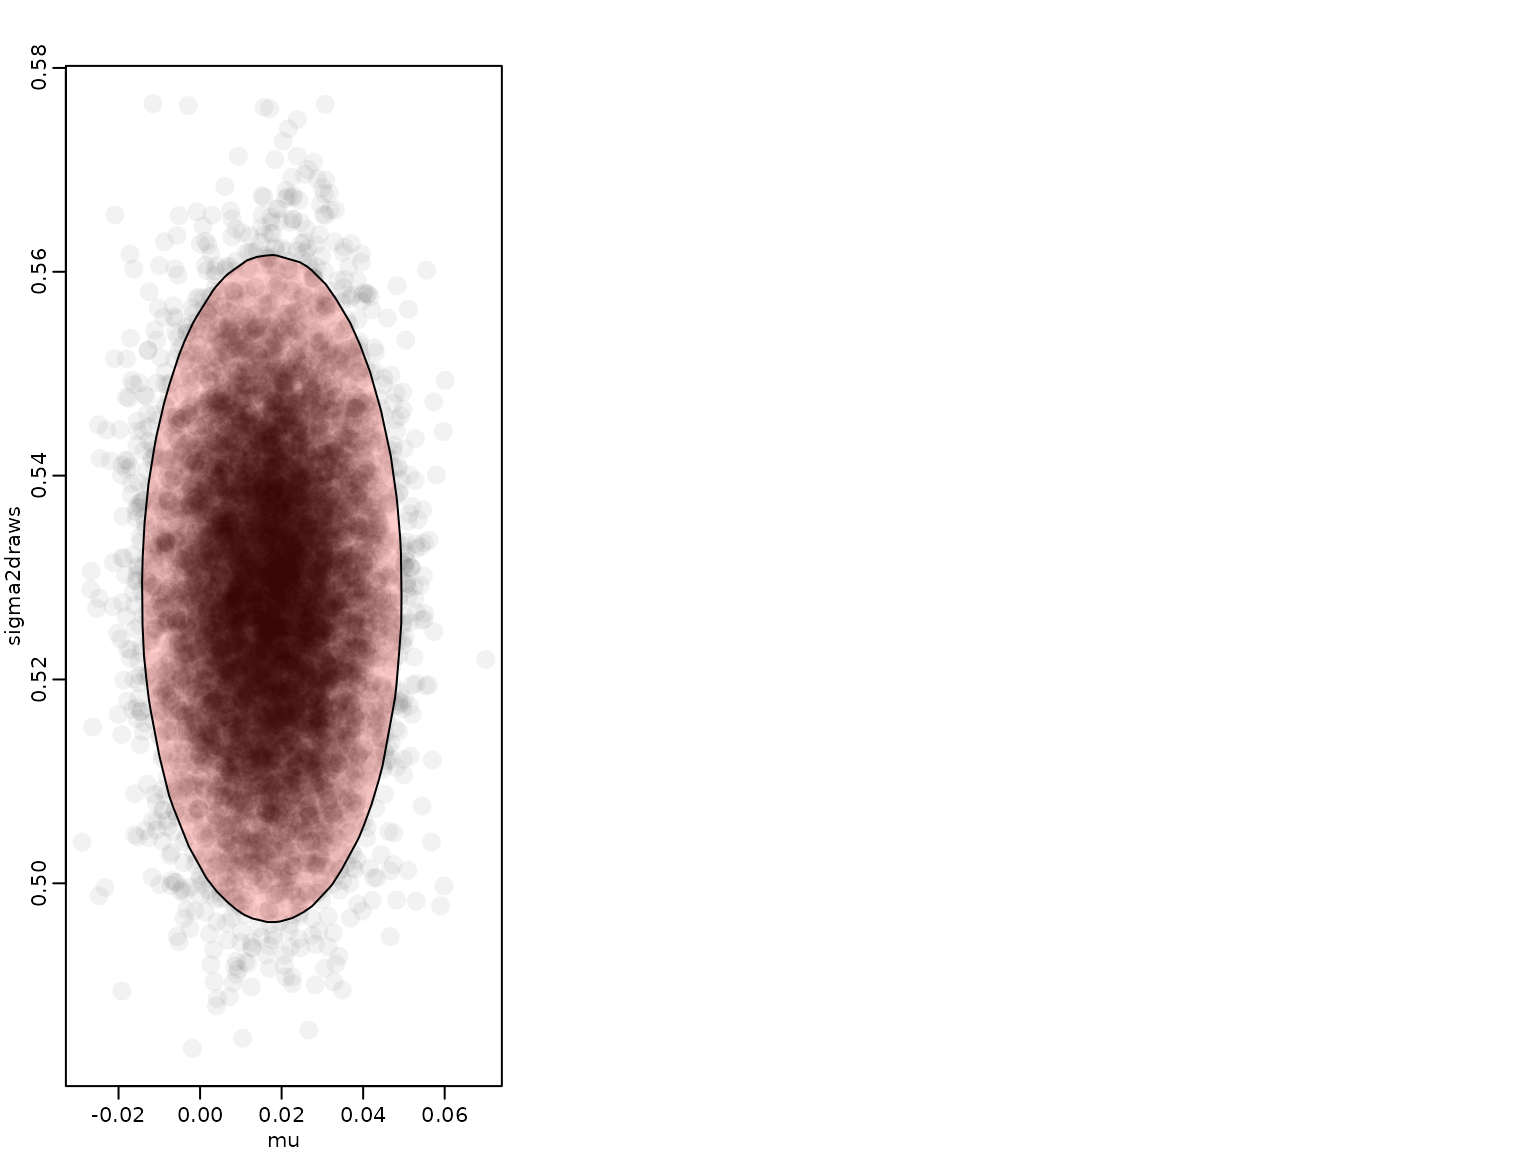
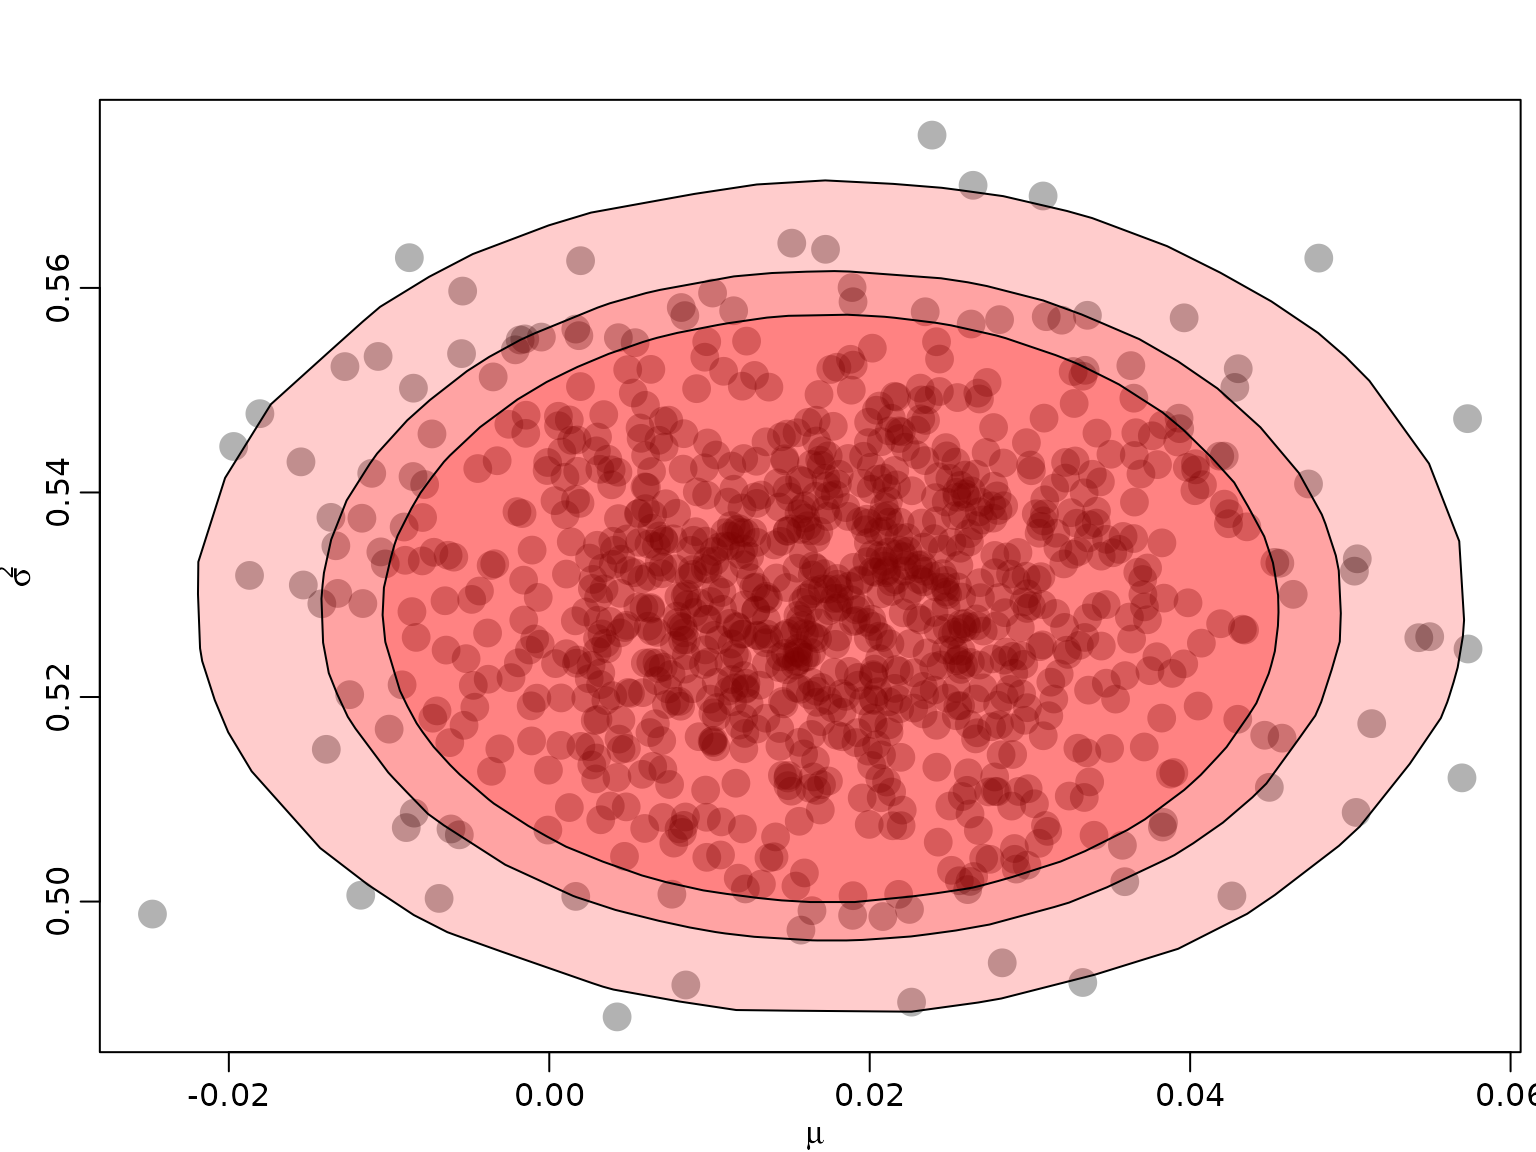
Deploying to gh-pages from @ gregorkastner/BayesianLearningCode@cec558fd69925d26761e5294ea083b0c732890b0 🚀

diff --git a/articles/Chapter05.html b/articles/Chapter05.html
@@ -119,7 +119,7 @@ beta-binomial model from earlier.</p>
 <p>Read in data again, and simulate from the posterior by Monte
 Carlo.</p>
 <div class="sourceCode" id="cb3"><pre class="downlit sourceCode r">
-<code class="sourceCode R"><span><span class="va">alpha</span> <span class="op">&lt;-</span> <span class="fl">0.05</span></span>
+<code class="sourceCode R"><span><span class="va">alpha</span> <span class="op">&lt;-</span> <span class="fu"><a href="https://rdrr.io/r/base/c.html" class="external-link">c</a></span><span class="op">(</span><span class="fl">.01</span>, <span class="fl">.05</span>, <span class="fl">.1</span><span class="op">)</span></span>
 <span><span class="va">ndraws</span> <span class="op">&lt;-</span> <span class="fl">100000</span></span>
 <span><span class="fu"><a href="https://rdrr.io/r/utils/data.html" class="external-link">data</a></span><span class="op">(</span><span class="va">exrates</span>, package <span class="op">=</span> <span class="st">"stochvol"</span><span class="op">)</span></span>
 <span><span class="va">y</span> <span class="op">&lt;-</span> <span class="fl">100</span> <span class="op">*</span> <span class="fu"><a href="https://rdrr.io/r/base/diff.html" class="external-link">diff</a></span><span class="op">(</span><span class="fu"><a href="https://rdrr.io/r/base/Log.html" class="external-link">log</a></span><span class="op">(</span><span class="va">exrates</span><span class="op">$</span><span class="va">USD</span> <span class="op">/</span> <span class="va">exrates</span><span class="op">$</span><span class="va">CHF</span><span class="op">)</span><span class="op">)</span></span>
@@ -129,18 +129,25 @@ Carlo.</p>
 <span><span class="va">sigma2draws</span> <span class="op">&lt;-</span> <span class="fl">1</span> <span class="op">/</span> <span class="fu"><a href="https://rdrr.io/r/stats/GammaDist.html" class="external-link">rgamma</a></span><span class="op">(</span><span class="va">ndraws</span>, <span class="op">(</span><span class="va">N</span> <span class="op">-</span> <span class="fl">1</span><span class="op">)</span> <span class="op">/</span> <span class="fl">2</span>, <span class="va">N</span> <span class="op">*</span> <span class="va">s2</span> <span class="op">/</span> <span class="fl">2</span><span class="op">)</span></span>
 <span><span class="va">mudraws</span> <span class="op">&lt;-</span> <span class="fu"><a href="https://rdrr.io/r/stats/Normal.html" class="external-link">rnorm</a></span><span class="op">(</span><span class="va">ndraws</span>, <span class="fu"><a href="https://rdrr.io/r/base/mean.html" class="external-link">mean</a></span><span class="op">(</span><span class="va">y</span><span class="op">)</span>, <span class="fu"><a href="https://rdrr.io/r/base/MathFun.html" class="external-link">sqrt</a></span><span class="op">(</span><span class="va">sigma2draws</span> <span class="op">/</span> <span class="va">N</span><span class="op">)</span><span class="op">)</span></span>
 <span><span class="va">draws</span> <span class="op">&lt;-</span> <span class="fu"><a href="https://rdrr.io/r/base/data.frame.html" class="external-link">data.frame</a></span><span class="op">(</span>mu <span class="op">=</span> <span class="va">mudraws</span>, sigma2draws <span class="op">=</span> <span class="va">sigma2draws</span><span class="op">)</span></span></code></pre></div>
-<p>Obtain the functional values and keep the top 95 percent.</p>
+<p>Obtain the functional values and keep the top 99, 95, 90 percent,
+respectively.</p>
 <div class="sourceCode" id="cb4"><pre class="downlit sourceCode r">
 <code class="sourceCode R"><span><span class="va">dens</span> <span class="op">&lt;-</span> <span class="fu">posterior</span><span class="op">(</span><span class="va">draws</span><span class="op">$</span><span class="va">mu</span>, <span class="va">draws</span><span class="op">$</span><span class="va">sigma2</span>, <span class="va">ybar</span>, <span class="va">s2</span>, <span class="va">N</span><span class="op">)</span></span>
-<span><span class="va">HPDdraws</span> <span class="op">&lt;-</span> <span class="va">draws</span><span class="op">[</span><span class="fu"><a href="https://rdrr.io/r/base/rank.html" class="external-link">rank</a></span><span class="op">(</span><span class="va">dens</span><span class="op">)</span> <span class="op">&gt;</span> <span class="fu"><a href="https://rdrr.io/r/base/Round.html" class="external-link">floor</a></span><span class="op">(</span><span class="va">ndraws</span> <span class="op">*</span> <span class="va">alpha</span><span class="op">)</span>,<span class="op">]</span></span></code></pre></div>
+<span><span class="va">HPDdraws</span> <span class="op">&lt;-</span> <span class="fu"><a href="https://rdrr.io/r/base/vector.html" class="external-link">vector</a></span><span class="op">(</span><span class="st">"list"</span>, <span class="fu"><a href="https://rdrr.io/r/base/length.html" class="external-link">length</a></span><span class="op">(</span><span class="va">alpha</span><span class="op">)</span><span class="op">)</span></span>
+<span><span class="kw">for</span> <span class="op">(</span><span class="va">i</span> <span class="kw">in</span> <span class="fu"><a href="https://rdrr.io/r/base/seq.html" class="external-link">seq_along</a></span><span class="op">(</span><span class="va">alpha</span><span class="op">)</span><span class="op">)</span> <span class="op">{</span></span>
+<span> <span class="va">HPDdraws</span><span class="op">[[</span><span class="va">i</span><span class="op">]</span><span class="op">]</span> <span class="op">&lt;-</span> <span class="va">draws</span><span class="op">[</span><span class="fu"><a href="https://rdrr.io/r/base/rank.html" class="external-link">rank</a></span><span class="op">(</span><span class="va">dens</span><span class="op">)</span> <span class="op">&gt;</span> <span class="fu"><a href="https://rdrr.io/r/base/Round.html" class="external-link">floor</a></span><span class="op">(</span><span class="va">ndraws</span> <span class="op">*</span> <span class="va">alpha</span><span class="op">[</span><span class="va">i</span><span class="op">]</span><span class="op">)</span>,<span class="op">]</span></span>
+<span><span class="op">}</span></span></code></pre></div>
 <p>To visualize, we compute the convex hull of the remaining draws. Note
 that we randomly exclude some draws for visualization only in order to
 avoid plotting too many overlapping points.</p>
 <div class="sourceCode" id="cb5"><pre class="downlit sourceCode r">
-<code class="sourceCode R"><span><span class="va">toplot</span> <span class="op">&lt;-</span> <span class="fu"><a href="https://rdrr.io/r/base/sample.html" class="external-link">sample.int</a></span><span class="op">(</span><span class="fu"><a href="https://rdrr.io/r/base/nrow.html" class="external-link">nrow</a></span><span class="op">(</span><span class="va">HPDdraws</span><span class="op">)</span>, <span class="fl">10000</span><span class="op">)</span></span>
-<span><span class="fu"><a href="https://rdrr.io/r/graphics/plot.default.html" class="external-link">plot</a></span><span class="op">(</span><span class="va">draws</span><span class="op">[</span><span class="va">toplot</span>,<span class="op">]</span>, pch <span class="op">=</span> <span class="fl">16</span>, col <span class="op">=</span> <span class="fu"><a href="https://rdrr.io/r/grDevices/rgb.html" class="external-link">rgb</a></span><span class="op">(</span><span class="fl">0</span>, <span class="fl">0</span>, <span class="fl">0</span>, <span class="fl">.05</span><span class="op">)</span>, cex <span class="op">=</span> <span class="fl">2</span><span class="op">)</span></span>
-<span><span class="va">hullind</span> <span class="op">&lt;-</span> <span class="fu"><a href="https://rdrr.io/r/grDevices/chull.html" class="external-link">chull</a></span><span class="op">(</span><span class="va">HPDdraws</span><span class="op">)</span></span>
-<span><span class="fu"><a href="https://rdrr.io/r/graphics/polygon.html" class="external-link">polygon</a></span><span class="op">(</span><span class="va">HPDdraws</span><span class="op">[</span><span class="va">hullind</span>,<span class="op">]</span>, col <span class="op">=</span> <span class="fu"><a href="https://rdrr.io/r/grDevices/rgb.html" class="external-link">rgb</a></span><span class="op">(</span><span class="fl">1</span>, <span class="fl">0</span>, <span class="fl">0</span>, <span class="fl">.2</span><span class="op">)</span><span class="op">)</span></span></code></pre></div>
+<code class="sourceCode R"><span><span class="va">toplot</span> <span class="op">&lt;-</span> <span class="fu"><a href="https://rdrr.io/r/base/sample.html" class="external-link">sample.int</a></span><span class="op">(</span><span class="fu"><a href="https://rdrr.io/r/base/nrow.html" class="external-link">nrow</a></span><span class="op">(</span><span class="va">draws</span><span class="op">)</span>, <span class="fl">1000</span><span class="op">)</span></span>
+<span><span class="fu"><a href="https://rdrr.io/r/graphics/plot.default.html" class="external-link">plot</a></span><span class="op">(</span><span class="va">draws</span><span class="op">[</span><span class="va">toplot</span>,<span class="op">]</span>, pch <span class="op">=</span> <span class="fl">16</span>, col <span class="op">=</span> <span class="fu"><a href="https://rdrr.io/r/grDevices/rgb.html" class="external-link">rgb</a></span><span class="op">(</span><span class="fl">0</span>, <span class="fl">0</span>, <span class="fl">0</span>, <span class="fl">.3</span><span class="op">)</span>, cex <span class="op">=</span> <span class="fl">2</span>,</span>
+<span>     xlab <span class="op">=</span> <span class="fu"><a href="https://rdrr.io/r/base/expression.html" class="external-link">expression</a></span><span class="op">(</span><span class="va">mu</span><span class="op">)</span>, ylab <span class="op">=</span> <span class="fu"><a href="https://rdrr.io/r/base/expression.html" class="external-link">expression</a></span><span class="op">(</span><span class="va">sigma</span><span class="op">^</span><span class="fl">2</span><span class="op">)</span><span class="op">)</span></span>
+<span><span class="kw">for</span> <span class="op">(</span><span class="va">i</span> <span class="kw">in</span> <span class="fu"><a href="https://rdrr.io/r/base/seq.html" class="external-link">seq_along</a></span><span class="op">(</span><span class="va">alpha</span><span class="op">)</span><span class="op">)</span> <span class="op">{</span></span>
+<span> <span class="va">hullind</span> <span class="op">&lt;-</span> <span class="fu"><a href="https://rdrr.io/r/grDevices/chull.html" class="external-link">chull</a></span><span class="op">(</span><span class="va">HPDdraws</span><span class="op">[[</span><span class="va">i</span><span class="op">]</span><span class="op">]</span><span class="op">)</span></span>
+<span> <span class="fu"><a href="https://rdrr.io/r/graphics/polygon.html" class="external-link">polygon</a></span><span class="op">(</span><span class="va">HPDdraws</span><span class="op">[[</span><span class="va">i</span><span class="op">]</span><span class="op">]</span><span class="op">[</span><span class="va">hullind</span>,<span class="op">]</span>, col <span class="op">=</span> <span class="fu"><a href="https://rdrr.io/r/grDevices/rgb.html" class="external-link">rgb</a></span><span class="op">(</span><span class="fl">1</span>, <span class="fl">0</span>, <span class="fl">0</span>, <span class="fl">.2</span><span class="op">)</span><span class="op">)</span></span>
+<span><span class="op">}</span></span></code></pre></div>
 <p><img src="Chapter05_files/figure-html/unnamed-chunk-7-1.png" width="768"></p>
 </div>
 <div class="section level2">
@@ -152,8 +159,12 @@ avoid plotting too many overlapping points.</p>
 <p>To reproduce this figure, we again re-use the theory from Chapter 3
 (the beta-binomial model).</p>
 <div class="sourceCode" id="cb6"><pre class="downlit sourceCode r">
-<code class="sourceCode R"><span><span class="va">thetatrue</span> <span class="op">&lt;-</span> <span class="fu"><a href="https://rdrr.io/r/base/c.html" class="external-link">c</a></span><span class="op">(</span><span class="fl">0.02</span>, <span class="fl">0.25</span><span class="op">)</span></span>
+<code class="sourceCode R"><span><span class="fu"><a href="https://rdrr.io/r/base/Random.html" class="external-link">set.seed</a></span><span class="op">(</span><span class="fl">2</span><span class="op">)</span></span>
+<span><span class="va">thetatrue</span> <span class="op">&lt;-</span> <span class="fu"><a href="https://rdrr.io/r/base/c.html" class="external-link">c</a></span><span class="op">(</span><span class="fl">0.02</span>, <span class="fl">0.25</span><span class="op">)</span></span>
 <span><span class="va">N</span> <span class="op">&lt;-</span> <span class="fu"><a href="https://rdrr.io/r/base/c.html" class="external-link">c</a></span><span class="op">(</span><span class="fl">25</span>, <span class="fl">100</span>, <span class="fl">400</span><span class="op">)</span></span>
+<span><span class="va">settings</span> <span class="op">&lt;-</span> <span class="fu"><a href="https://rdrr.io/r/base/expand.grid.html" class="external-link">expand.grid</a></span><span class="op">(</span>N <span class="op">=</span> <span class="va">N</span>, thetatrue <span class="op">=</span> <span class="va">thetatrue</span><span class="op">)</span></span>
+<span><span class="fu"><a href="https://rdrr.io/r/stats/Binomial.html" class="external-link">rbinom</a></span><span class="op">(</span><span class="fl">6</span>, <span class="va">settings</span><span class="op">$</span><span class="va">N</span>, <span class="va">settings</span><span class="op">$</span><span class="va">thetatrue</span><span class="op">)</span></span>
+<span><span class="co">#&gt; [1]   0   3   8   4  32 110</span></span>
 <span><span class="va">theta</span> <span class="op">&lt;-</span> <span class="fu"><a href="https://rdrr.io/r/base/seq.html" class="external-link">seq</a></span><span class="op">(</span><span class="fl">0</span>, <span class="fl">1</span>, <span class="fl">.0005</span><span class="op">)</span></span>
 <span></span>
 <span><span class="kw">for</span> <span class="op">(</span><span class="va">n</span> <span class="kw">in</span> <span class="va">N</span><span class="op">)</span> <span class="op">{</span></span>
@@ -227,6 +238,86 @@ polynomials and visualize these.</p>
 <span>  <span class="op">}</span></span>
 <span><span class="op">}</span></span></code></pre></div>
 <p><img src="Chapter05_files/figure-html/unnamed-chunk-10-1.png" width="768"></p>
+</div>
+<div class="section level3">
+<h3 id="table-5-1-point-estimates">Table 5.1: Point estimates<a class="anchor" aria-label="anchor" href="#table-5-1-point-estimates"></a>
+</h3>
+<p>We now compute various point estimates under several settings.</p>
+<div class="sourceCode" id="cb9"><pre class="downlit sourceCode r">
+<code class="sourceCode R"><span><span class="va">a0</span> <span class="op">&lt;-</span> <span class="fu"><a href="https://rdrr.io/r/base/c.html" class="external-link">c</a></span><span class="op">(</span><span class="fl">0.5</span>, <span class="fl">2</span><span class="op">)</span></span>
+<span><span class="va">set</span> <span class="op">&lt;-</span> <span class="fu"><a href="https://rdrr.io/r/base/expand.grid.html" class="external-link">expand.grid</a></span><span class="op">(</span>N <span class="op">=</span> <span class="va">N</span>, thetatrue <span class="op">=</span> <span class="va">thetatrue</span>, a0 <span class="op">=</span> <span class="va">a0</span><span class="op">)</span></span>
+<span><span class="va">set</span><span class="op">$</span><span class="va">b0</span> <span class="op">&lt;-</span> <span class="fu"><a href="https://rdrr.io/r/base/c.html" class="external-link">c</a></span><span class="op">(</span><span class="fu"><a href="https://rdrr.io/r/base/rep.html" class="external-link">rep</a></span><span class="op">(</span><span class="fl">0.5</span>, <span class="fl">6</span><span class="op">)</span>, <span class="fu"><a href="https://rdrr.io/r/base/rep.html" class="external-link">rep</a></span><span class="op">(</span><span class="fl">4</span>, <span class="fl">6</span><span class="op">)</span><span class="op">)</span></span>
+<span><span class="va">aN</span> <span class="op">&lt;-</span> <span class="va">set</span><span class="op">$</span><span class="va">N</span> <span class="op">*</span> <span class="va">set</span><span class="op">$</span><span class="va">thetatrue</span> <span class="op">+</span> <span class="va">set</span><span class="op">$</span><span class="va">a0</span></span>
+<span><span class="va">bN</span> <span class="op">&lt;-</span> <span class="va">set</span><span class="op">$</span><span class="va">N</span> <span class="op">*</span> <span class="op">(</span><span class="fl">1</span> <span class="op">-</span> <span class="va">set</span><span class="op">$</span><span class="va">thetatrue</span><span class="op">)</span> <span class="op">+</span> <span class="va">set</span><span class="op">$</span><span class="va">b0</span></span>
+<span><span class="va">posteriormean</span> <span class="op">&lt;-</span> <span class="va">aN</span> <span class="op">/</span> <span class="op">(</span><span class="va">aN</span> <span class="op">+</span> <span class="va">bN</span><span class="op">)</span></span>
+<span><span class="va">posteriormode</span> <span class="op">&lt;-</span> <span class="op">(</span><span class="va">aN</span> <span class="op">-</span> <span class="fl">1</span><span class="op">)</span> <span class="op">/</span> <span class="op">(</span><span class="va">aN</span> <span class="op">+</span> <span class="va">bN</span> <span class="op">-</span> <span class="fl">2</span><span class="op">)</span></span>
+<span><span class="va">res</span> <span class="op">&lt;-</span> <span class="fu"><a href="https://rdrr.io/r/base/cbind.html" class="external-link">cbind</a></span><span class="op">(</span>mean <span class="op">=</span> <span class="va">posteriormean</span>, mode <span class="op">=</span> <span class="va">posteriormode</span><span class="op">)</span></span>
+<span><span class="fu"><a href="https://rdrr.io/r/base/colnames.html" class="external-link">rownames</a></span><span class="op">(</span><span class="va">res</span><span class="op">)</span> <span class="op">&lt;-</span> <span class="va">set</span><span class="op">$</span><span class="va">N</span></span>
+<span><span class="fu">knitr</span><span class="fu">::</span><span class="fu"><a href="https://rdrr.io/pkg/knitr/man/kable.html" class="external-link">kable</a></span><span class="op">(</span><span class="fu"><a href="https://rdrr.io/r/base/t.html" class="external-link">t</a></span><span class="op">(</span><span class="fu"><a href="https://rdrr.io/r/base/Round.html" class="external-link">round</a></span><span class="op">(</span><span class="va">res</span>, <span class="fl">4</span><span class="op">)</span><span class="op">)</span><span class="op">)</span></span></code></pre></div>
+<table style="width:100%;" class="table">
+<colgroup>
+<col width="5%">
+<col width="7%">
+<col width="7%">
+<col width="7%">
+<col width="7%">
+<col width="7%">
+<col width="7%">
+<col width="7%">
+<col width="7%">
+<col width="7%">
+<col width="7%">
+<col width="7%">
+<col width="7%">
+</colgroup>
+<thead><tr class="header">
+<th align="left"></th>
+<th align="right">25</th>
+<th align="right">100</th>
+<th align="right">400</th>
+<th align="right">25</th>
+<th align="right">100</th>
+<th align="right">400</th>
+<th align="right">25</th>
+<th align="right">100</th>
+<th align="right">400</th>
+<th align="right">25</th>
+<th align="right">100</th>
+<th align="right">400</th>
+</tr></thead>
+<tbody>
+<tr class="odd">
+<td align="left">mean</td>
+<td align="right">0.0385</td>
+<td align="right">0.0248</td>
+<td align="right">0.0212</td>
+<td align="right">0.2596</td>
+<td align="right">0.2525</td>
+<td align="right">0.2506</td>
+<td align="right">0.0806</td>
+<td align="right">0.0377</td>
+<td align="right">0.0246</td>
+<td align="right">0.2661</td>
+<td align="right">0.2547</td>
+<td align="right">0.2512</td>
+</tr>
+<tr class="even">
+<td align="left">mode</td>
+<td align="right">0.0000</td>
+<td align="right">0.0152</td>
+<td align="right">0.0188</td>
+<td align="right">0.2396</td>
+<td align="right">0.2475</td>
+<td align="right">0.2494</td>
+<td align="right">0.0517</td>
+<td align="right">0.0288</td>
+<td align="right">0.0223</td>
+<td align="right">0.2500</td>
+<td align="right">0.2500</td>
+<td align="right">0.2500</td>
+</tr>
+</tbody>
+</table>
 </div>
 </div>
   </main><aside class="col-md-3"><nav id="toc" aria-label="Table of contents"><h2>On this page</h2>
